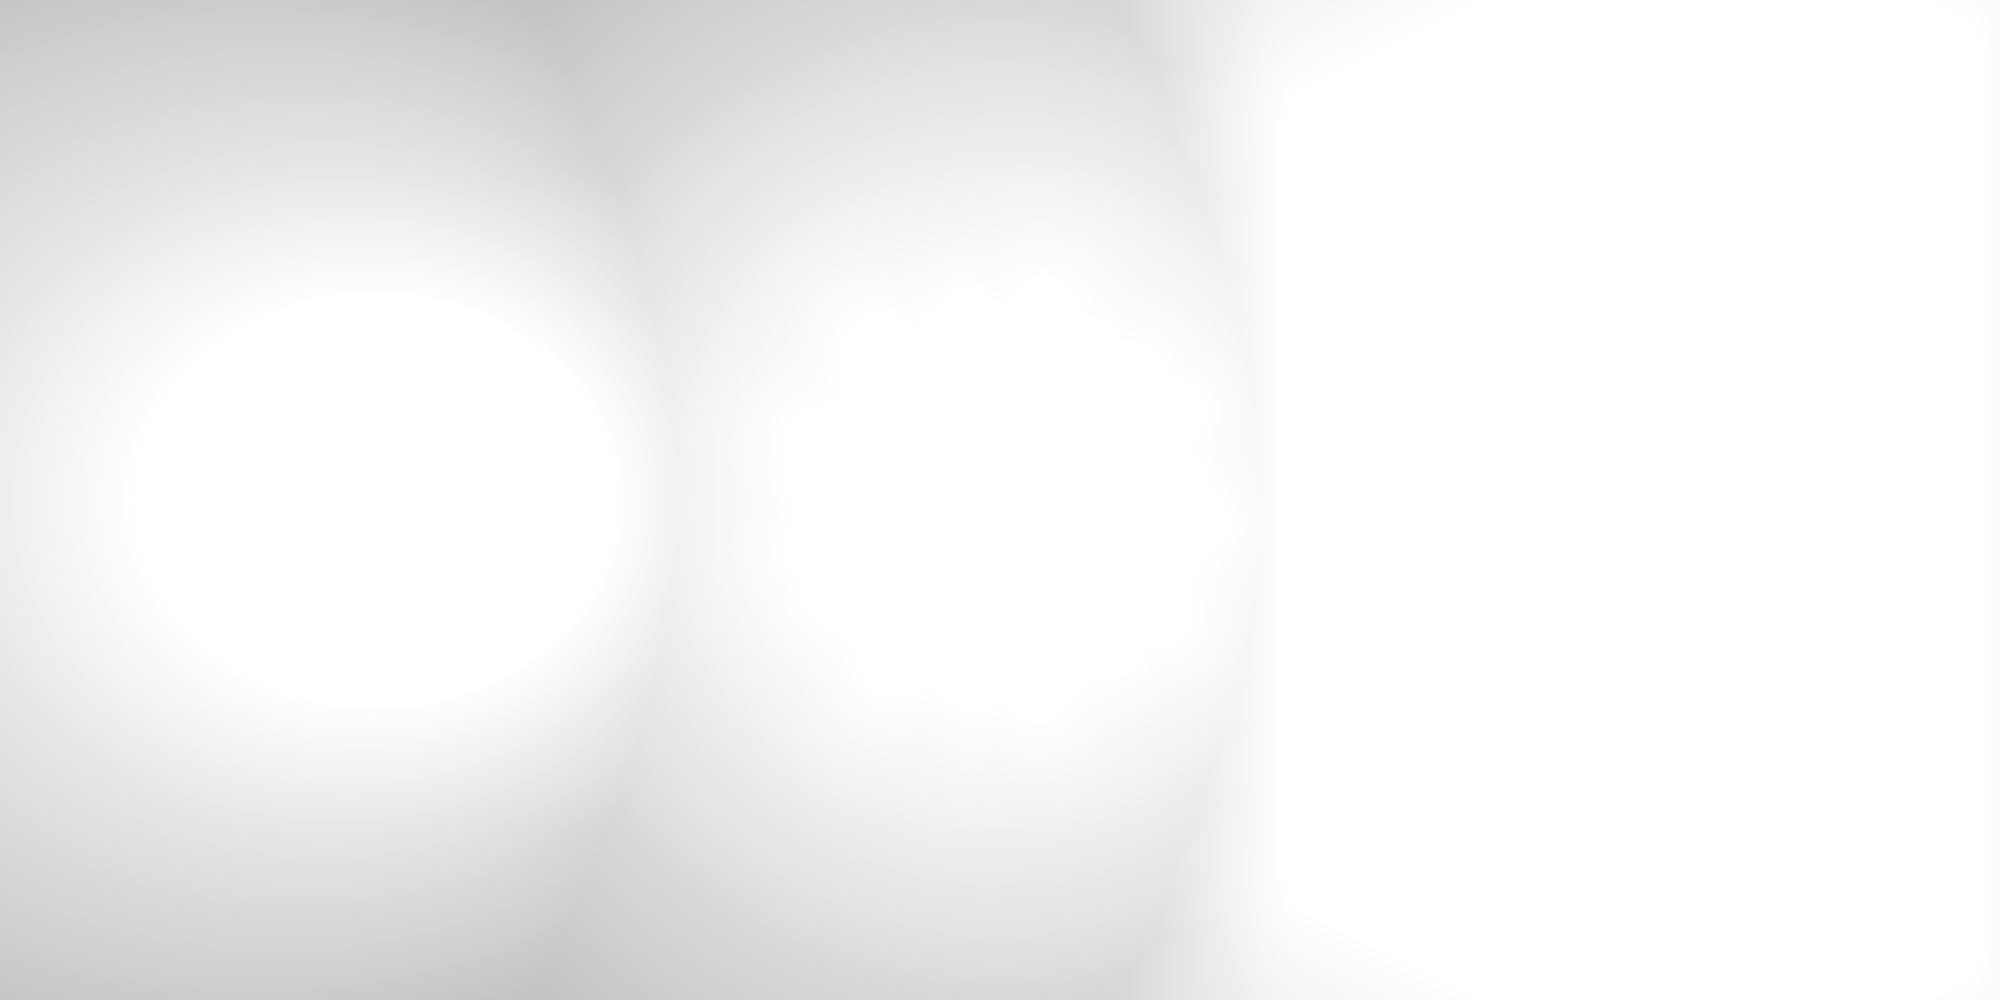
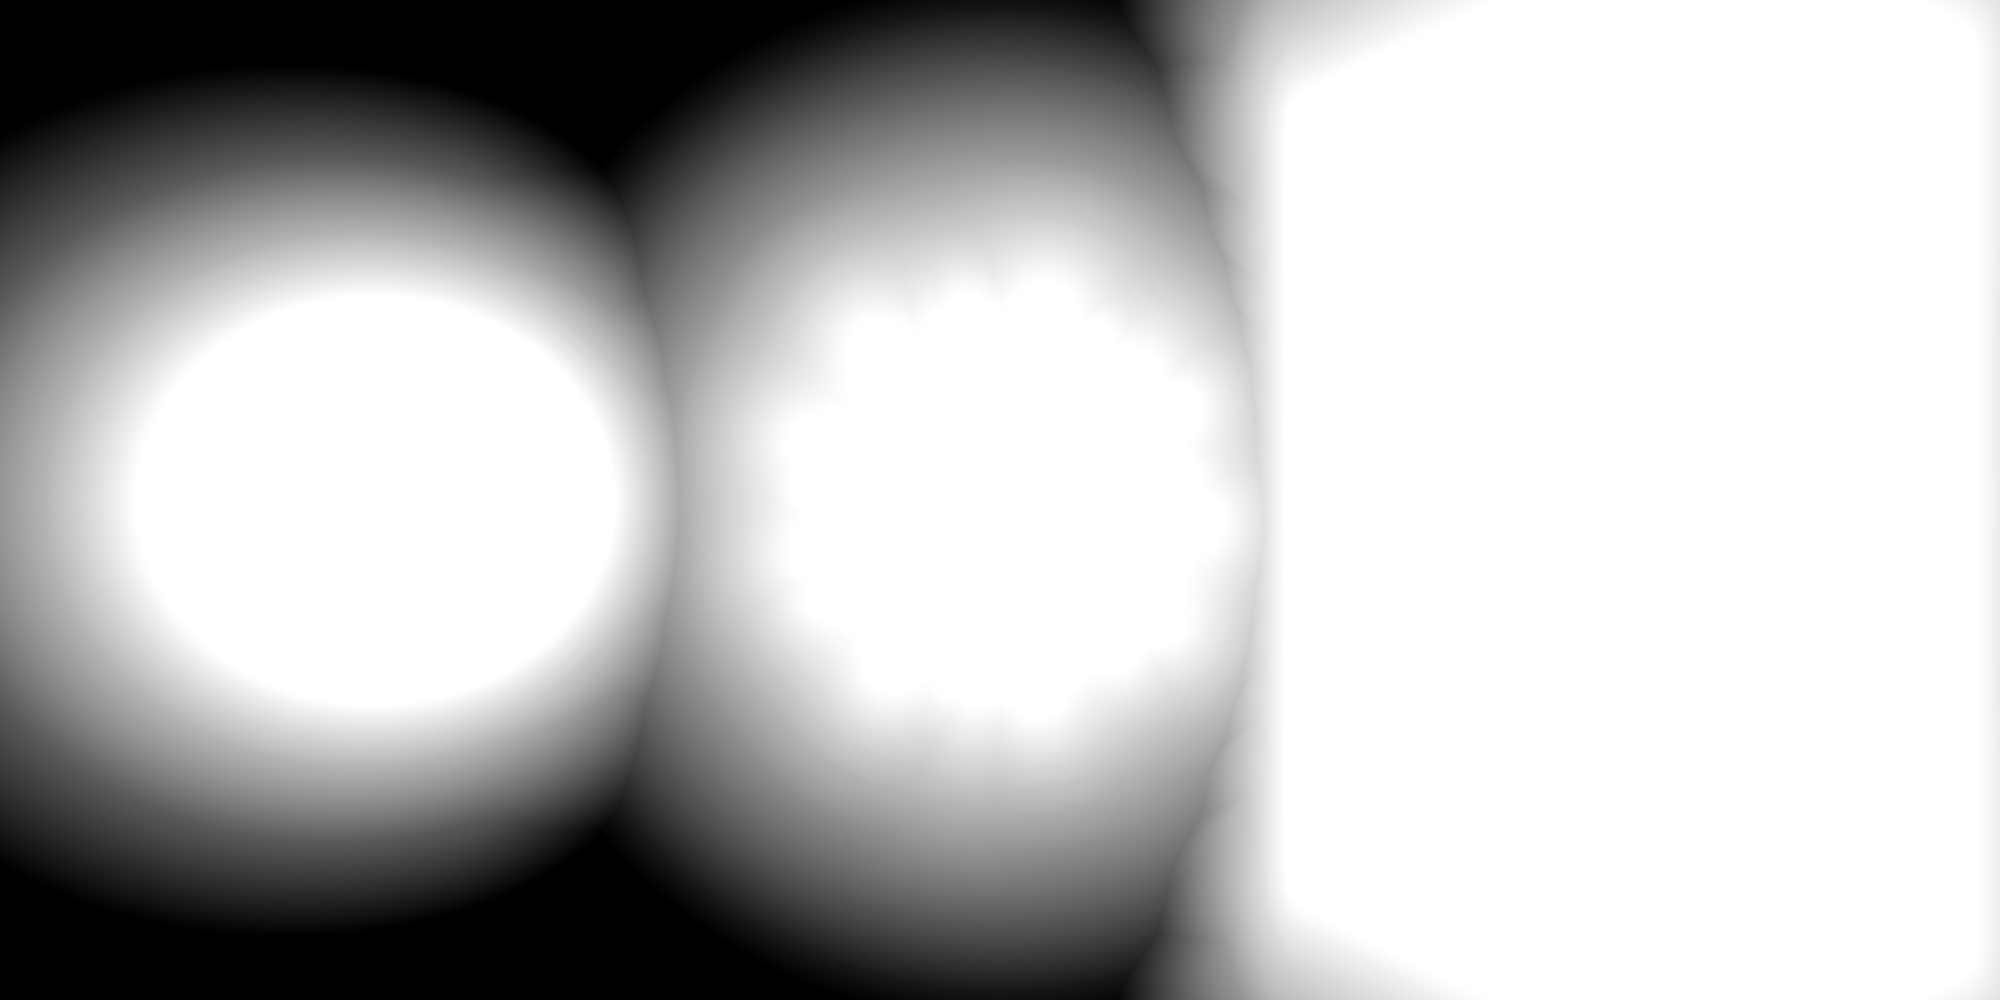
Made min dist more visible

diff --git a/src/main.rs b/src/main.rs
@@ -80,28 +80,4 @@ fn main() {
     let render = scene.render(WIDTH, HEIGHT);
     render.to_png(WIDTH, HEIGHT, "renders/output2");
     println!("{scene:?}");
-
-    let mut scene = Scene::empty();
-    scene.scene = TreeNode::Node(ObjectTree {
-        operation: scene::Operation::SmoothUnion(1.0),
-        left: Box::new(TreeNode::Leaf(Object::new(
-            Vec3::new(-3.0, 0.0, -4.0),
-            Quat::identity(),
-            Vec3::new(1.0, 1.0, 1.0),
-            Shape::Sphere,
-        ))),
-        right: Box::new(TreeNode::Leaf(Object::new(
-            Vec3::new(3.0, 0.0, -4.0),
-            Quat::rot_y(0.5),
-            Vec3::new(1.0, 2.0, 1.0),
-            Shape::Cube,
-        ))),
-    });
-
-    scene.camera.set_aspect_ratio(WIDTH, HEIGHT);
-    scene.camera.position = Vec3::new(0.0, 0.0, 1.0);
-    scene.camera.rotate(0.0, 0.0);
-    let render = scene.render(WIDTH, HEIGHT);
-    render.to_png(WIDTH, HEIGHT, "renders/bug_cutoff");
-    println!("{scene:?}");
 }

diff --git a/src/scene.rs b/src/scene.rs
@@ -138,7 +138,9 @@ impl Render {
                 let occ = (occl * 255.0).round() as u8;
                 let depthu = 255 - (depth / 10.0 * 255.0).round() as u8;
                 let mind_powed = (1.0 - mind).powf(25.0);
-                let mind = 255 - (mind / 5.0 * 205.0).round() as u8;
+                //println!("{}", mind);
+                let mind = 255 - (mind * 255.0).min(255.0).round() as u8;
+                //println!("{}", mind);
 
                 m.put_pixel(x, y, image::Rgba([mind, mind, mind, 255]));
                 colours.put_pixel(x, y, image::Rgba([r, g, b, 255]));
